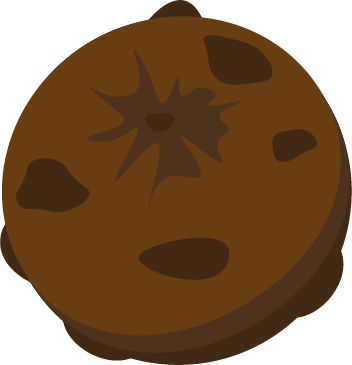
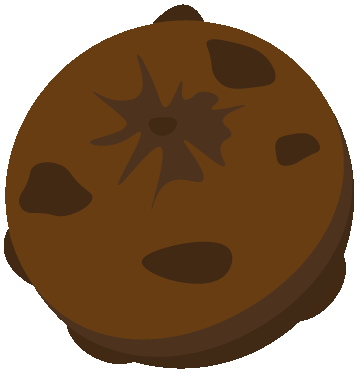
Added white outline to asteroid

diff --git a/main.py b/main.py
@@ -56,8 +56,6 @@ class World(Entity):
             self.arrow.scale_x = 0.7
             self.start.look_at_2d(mouse.position*camera.fov)
             
-        for asteroid in self.asteroids:
-            asteroid.rotate()  # Call the rotate function for each asteroid
         
     def destroy(self):
         for asteroid in self.asteroids:
@@ -101,7 +99,7 @@ class Asteroid(Entity):
         self.world = world
         self.rotation_speed = randint(-45, 45)  # Random initial rotation speed in degrees per second
 
-    def rotate(self):
+    def update(self):
         # Update the rotation of the asteroid based on its rotation speed
         self.rotation_z += self.rotation_speed * time.dt
         # Ensure that the rotation stays within 360 degrees
